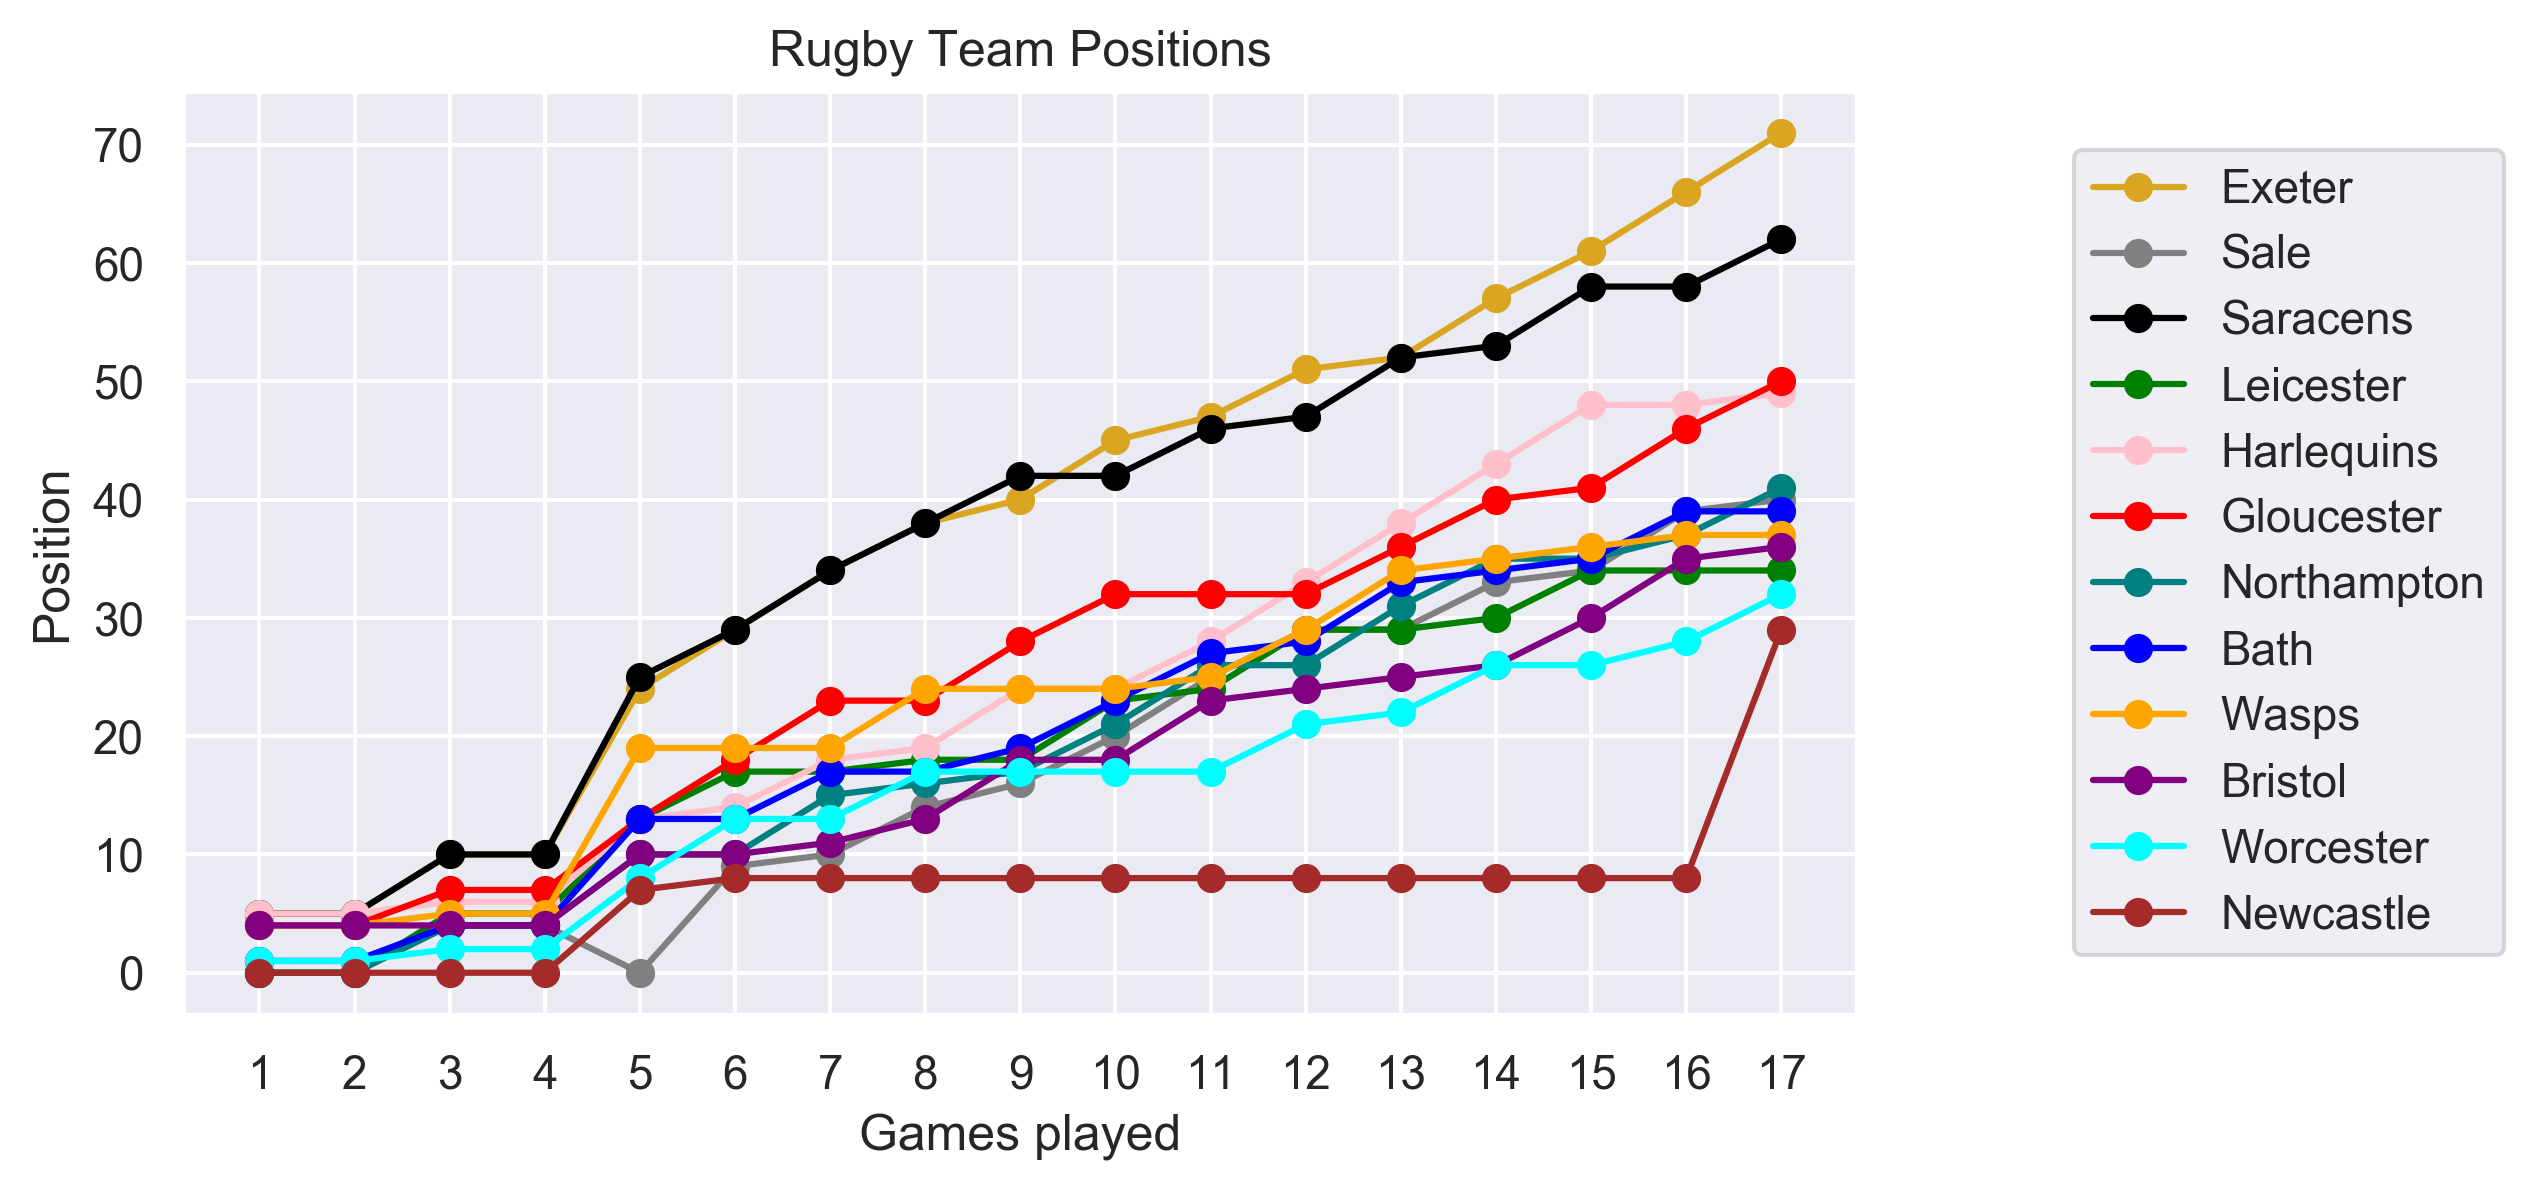
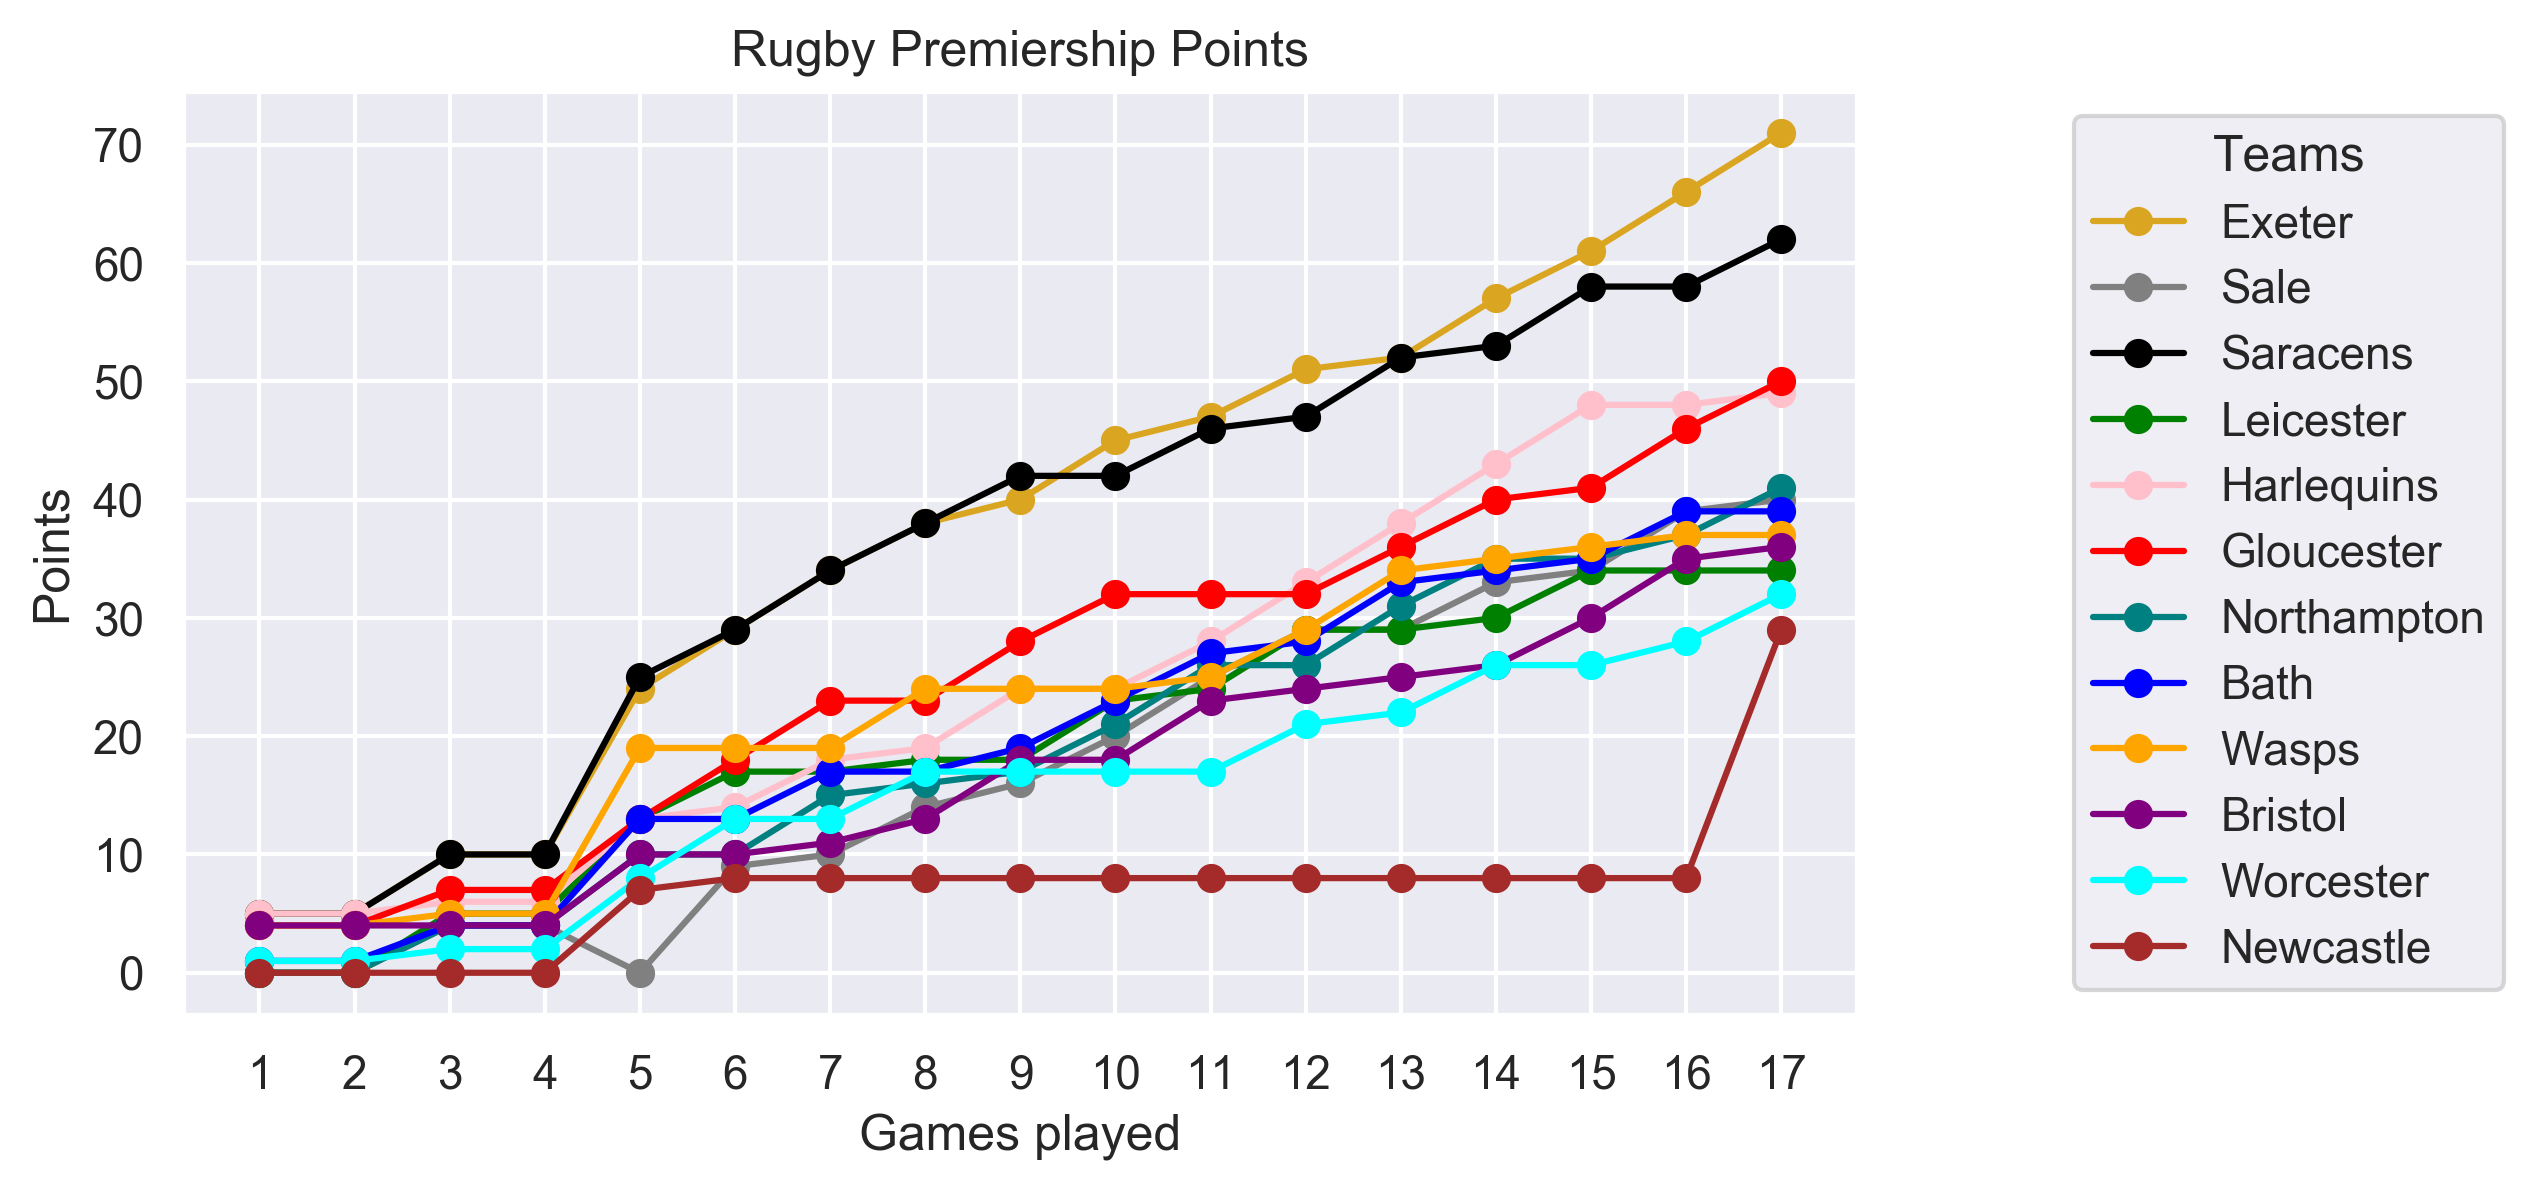
Tidy up core fix team_points

Changed region(s): [[0.8106, 0.0932, 0.9976, 0.8388], [0.2806, 0.0311, 0.53, 0.0621], [0.0, 0.4039, 0.0312, 0.5281]]

diff --git a/core.py b/core.py
@@ -3,35 +3,33 @@ import json
 
 PATH = '/Users/ed/Projects/rugby_visualiser/rugby_data/'
 FILE_NAMES = os.listdir(PATH)
-teams = {
-    'Exeter': [],
-    'Sale': [],
-    'Saracens': [],
-    'Leicester': [],
-    'Harlequins': [],
-    'Gloucester': [],
-    'Northampton': [],
-    'Bath': [],
-    'Wasps': [],
-    'Bristol': [],
-    'Worcester': [],
-    'Newcastle':[]
-}
 
-total = 0
-file_names_sorted = []
-for item in FILE_NAMES:
-    file_names_sorted.append(item)
-file_names_sorted = sorted(file_names_sorted)
+file_list = sorted([item for item in FILE_NAMES])
 
-for item in file_names_sorted:
-    with open(PATH + item, 'r') as jsonfile:
-        total += 1
-        jsonreader = json.load(jsonfile)
-        for item in jsonreader:
-            for team in teams:
-                if item['Team'] == team:
-                    teams[team].append(int(item['Place']))
+def create_axis(file_list, feature):
+    teams = {
+        'Exeter': [],
+        'Sale': [],
+        'Saracens': [],
+        'Leicester': [],
+        'Harlequins': [],
+        'Gloucester': [],
+        'Northampton': [],
+        'Bath': [],
+        'Wasps': [],
+        'Bristol': [],
+        'Worcester': [],
+        'Newcastle':[]
+    }
+    for item in file_list:
+        with open(PATH + item, 'r') as jsonfile:
+            jsonreader = json.load(jsonfile)
+            for item in jsonreader:
+                for team in teams:
+                    if item['Team'] == team:
+                        teams[team].append(int(item[feature]))
+    x = [x for x in range(1, len(file_list) + 1)]
+    teams['x'] = x
+    return teams
 
-x = [x for x in range(1, total + 1)]
-teams['x'] = x
+teams = create_axis(file_list, 'Points')

diff --git a/team_points.py b/team_points.py
@@ -1,20 +1,19 @@
 import matplotlib.pyplot as plt
 import seaborn as sns
 import pandas as pd
-import core
-import random
+
+from core import teams
 
 sns.set()
-# Data
-df = pd.DataFrame(core.teams)
+df = pd.DataFrame(teams)
 
 fig = plt.figure(figsize=(9,4))
 ax = fig.add_subplot(111)
+plt.title("Rugby Premiership Points")
 plt.xlabel("Games played")
-plt.ylabel("Position")
-plt.xticks(range(1, core.total + 1))
+plt.ylabel("Points")
+plt.xticks(range(1, len(teams['x']) + 1))
 plt.grid(1)
-plt.title("Rugby Team Positions")
 colors = {
     'Bath': 'blue',
     'Wasps': 'orange', 
@@ -30,7 +29,7 @@ colors = {
     'Exeter': 'goldenrod'
 }
 
-for key, item in core.teams.items():
+for key, item in teams.items():
     if key == 'x':
         continue
     else: 
@@ -38,12 +37,9 @@ for key, item in core.teams.items():
 
 box = ax.get_position()
 ax.set_position([box.x0, box.y0, box.width * 0.8, box.height])
-plt.legend(loc='center right', bbox_to_anchor=(1.4, 0.5))
+plt.legend(loc='center right', bbox_to_anchor=(1.4, 0.5), title="Teams")
 
 # plt.show()
 
 fname = 'points.png'
-plt.savefig(fname, dpi=300, facecolor='w', edgecolor='w',
-        orientation='portrait', papertype=None, format=None,
-        transparent=False, bbox_inches='tight', pad_inches=0.1,
-        frameon=None)
+plt.savefig(fname, dpi=300, bbox_inches='tight')
